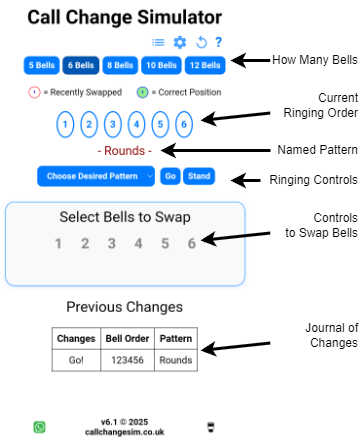
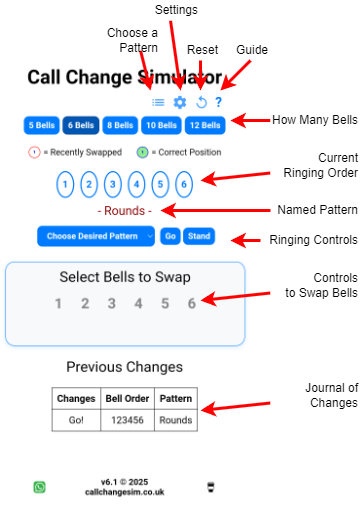
Add Settings Page

diff --git a/docs/settings.md b/docs/settings.md
@@ -1,0 +1,18 @@
+---
+title: "Simulator Settings"
+author: "Dunstan Vavasour"
+date: "2025/03/14"
+draft: true
+---
+
+# A Guide to the Settings Page
+
+![Here come the settings](png/options.png)
+
+- **Call Up | Call Down** - Whether to use up or down changes  
+  `TODO: Find a good link to reference up and down changes`
+- **Open Handstroke** - Whether to add a gap before the handstroke of Firsts place bell (recommended)
+- **Offline Mode** - Switch between the bell tones (which are only available when you're online) or beeps made by your device (which are still available when you're offline)
+- **Spatial Bell Sounds** - `TODO: this doesn't seem to make any difference on my device`
+  
+

diff --git a/docs/controls.md b/docs/controls.md
@@ -18,3 +18,11 @@ draft: true
     - **Stand** - Stop the ringing at the end of a change
 - **Controls to Swap Bells** - Select two bells to swap: the first selected bell shows in blue until the second is pressed
 - **Journal of Changes** - A list, with the newest first, of changes you've made.
+
+### And Along the Top
+
+- **Choose a Pattern** - Provides the same functions as **Change Desired pattern** above, via an alternative interface
+- **Settings** - See [Settings](../settings)
+- **Reset** - Clears everything back to rounds for your selected number of bells
+- **Guide** - Opens a handy quick reference guide
+
